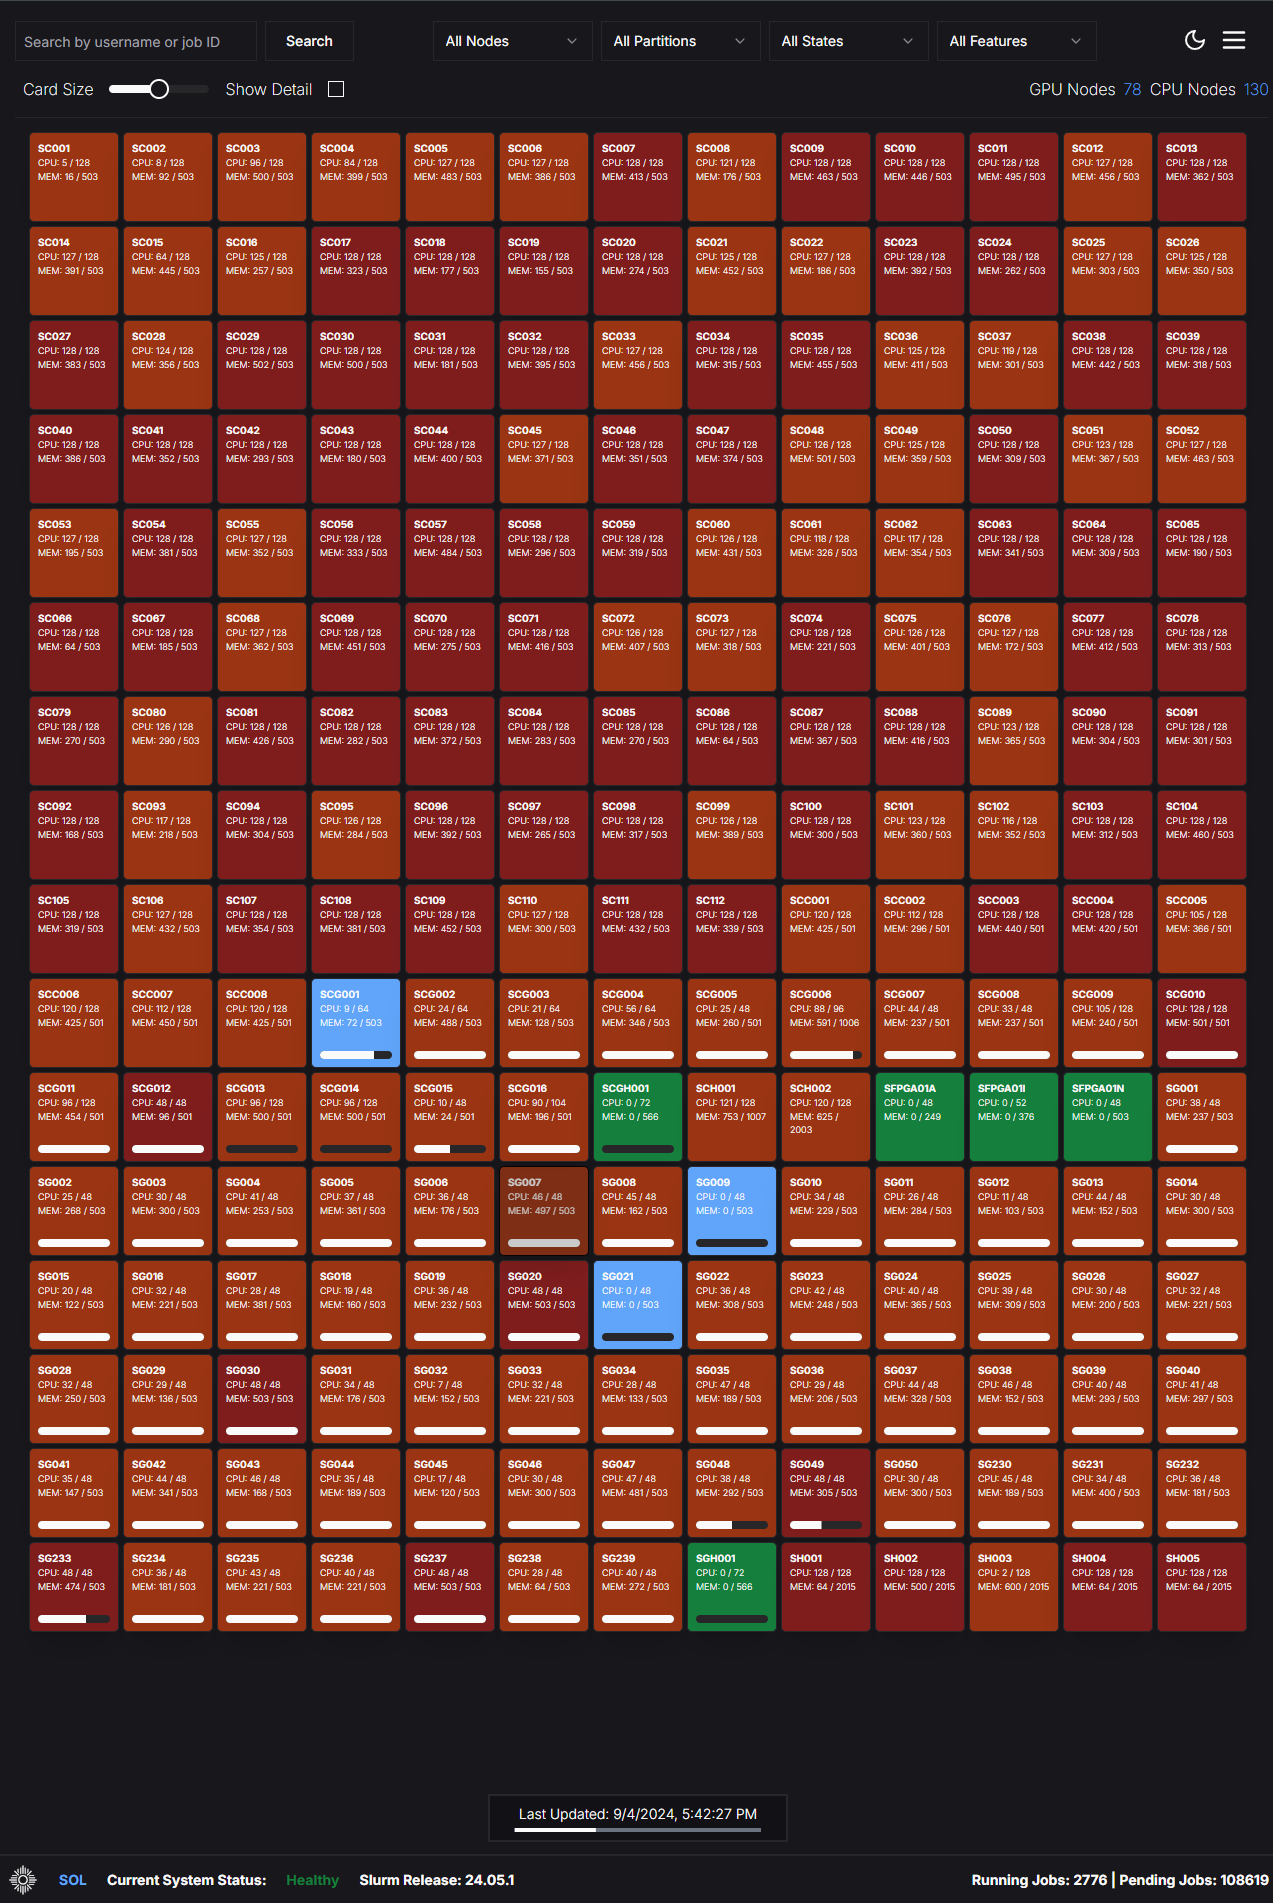
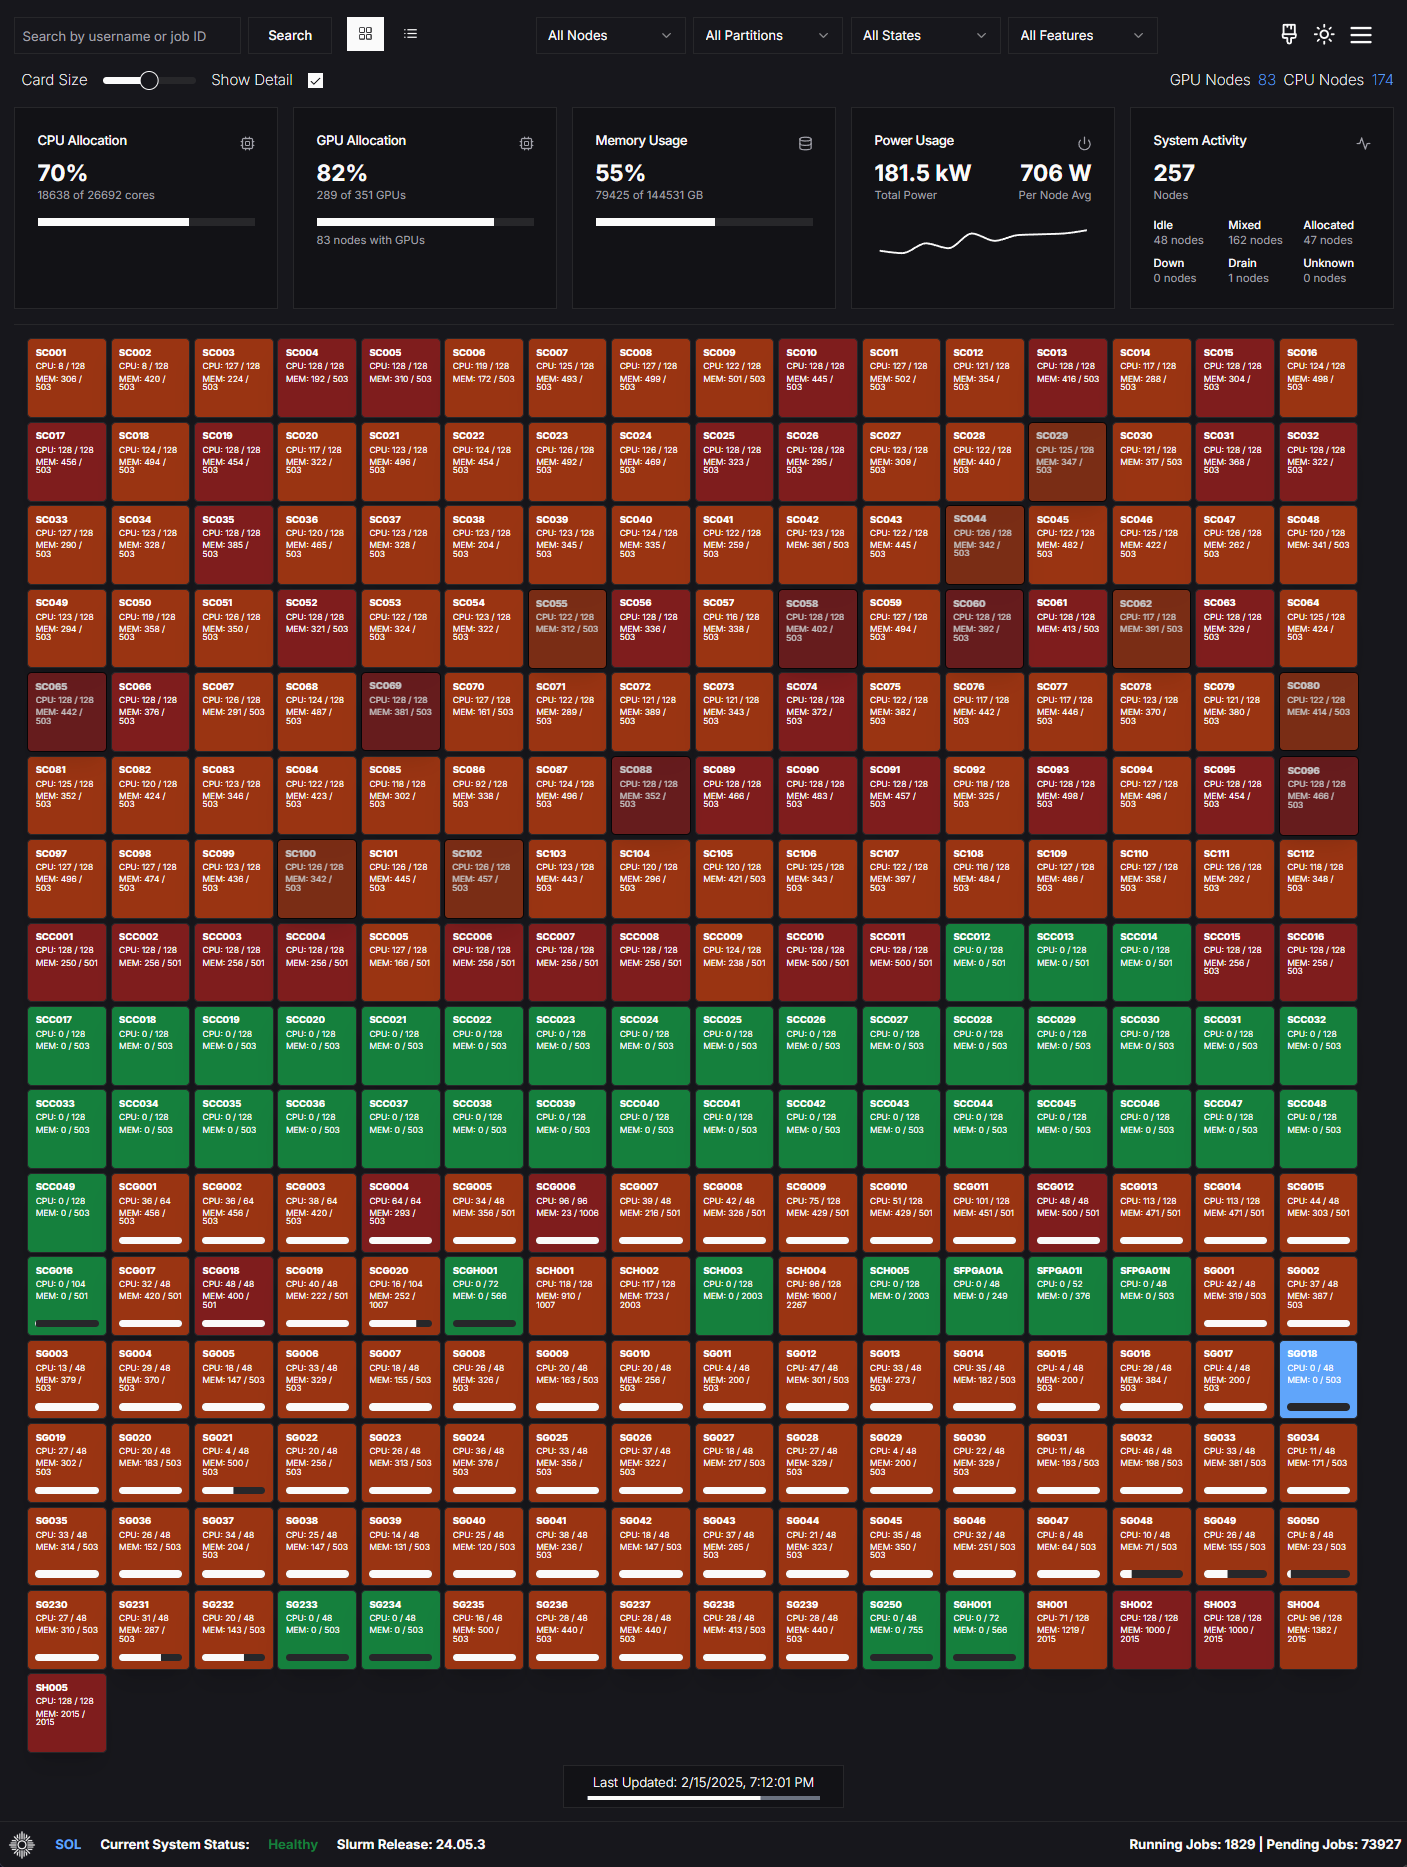
updating images for github, and updating power to use prometheus ipmi power data if available.

diff --git a/components/nodeCard/stats.tsx b/components/nodeCard/stats.tsx
@@ -1,12 +1,44 @@
 import React from "react";
 import { Card, CardContent, CardHeader, CardTitle } from "@/components/ui/card";
-import { LineChart, Line, ResponsiveContainer } from "recharts";
+import { LineChart, Line, ResponsiveContainer, YAxis, Tooltip } from "recharts";
 import { Activity, Cpu, Database, Power } from "lucide-react";
 import { parseGPUResources } from "@/utils/gpu-parse";
 import { cn } from "@/lib/utils";
+import { CustomTooltip } from "./stats-power-tooltip";
+import useSWR from "swr";
+
+// Fetcher function for SWR
+const fetcher = async (url: string) => {
+  const res = await fetch(url);
+  if (!res.ok) throw new Error("Failed to fetch data");
+  return res.json();
+};
 
 export default function Stats({ data }: { data: { nodes: any[] } }) {
   const systems = data?.nodes || [];
+  const [isPrometheusAvailable, setIsPrometheusAvailable] = React.useState<
+    boolean | null
+  >(null);
+  const shouldFetch = isPrometheusAvailable !== false;
+  const { data: powerData, error } = useSWR(
+    shouldFetch ? "/api/prometheus/ipmi" : null,
+    fetcher,
+    {
+      refreshInterval: 60000, // 60 seconds
+      fallbackData: { status: 404, data: [], summary: null },
+      onError: (err) => {
+        console.error("Prometheus endpoint error:", err);
+        setIsPrometheusAvailable(false);
+      },
+      onSuccess: (data) => {
+        setIsPrometheusAvailable(data.status === 200);
+      },
+    }
+  );
+
+  const usePrometheusData = powerData?.status === 200;
+  const prometheusData = powerData?.data || [];
+  const powerSummary = powerData?.summary;
 
   const stats = React.useMemo(() => {
     let totalMemoryUsed = 0;
@@ -33,7 +65,8 @@ export default function Stats({ data }: { data: { nodes: any[] } }) {
       totalCoresUsed += node.alloc_cpus;
       totalCores += node.cpus;
 
-      if (node.energy?.current_watts?.number) {
+      // Only use Slurm power data if Prometheus data isn't available
+      if (!usePrometheusData && node.energy?.current_watts?.number) {
         totalPowerUsage += node.energy.current_watts.number;
         totalPowerNodes++;
       }
@@ -48,7 +81,6 @@ export default function Stats({ data }: { data: { nodes: any[] } }) {
         totalGpuNodes++;
       }
 
-      // Track node states
       if (node.state[0] === "IDLE") nodeStates.idle++;
       if (node.state[0] === "MIXED") nodeStates.mixed++;
       if (node.state[0] === "ALLOCATED") nodeStates.allocated++;
@@ -65,22 +97,41 @@ export default function Stats({ data }: { data: { nodes: any[] } }) {
       totalCores,
       totalGpuUsed,
       totalGpu,
-      averagePowerUsage:
-        totalPowerNodes > 0 ? totalPowerUsage / totalPowerNodes : 0,
-      totalPowerKw: totalPowerUsage / 1000,
+      averagePowerUsage: usePrometheusData
+        ? powerSummary?.currentAverage || 0
+        : totalPowerNodes > 0
+        ? totalPowerUsage / totalPowerNodes
+        : 0,
+      totalPowerKw: usePrometheusData
+        ? (powerSummary?.currentTotal || 0) / 1000
+        : totalPowerUsage / 1000,
       nodeStates,
       totalGpuNodes,
-      hasPowerData: totalPowerNodes > 0,
+      hasPowerData: usePrometheusData ? true : totalPowerNodes > 0,
     };
-  }, [systems]);
+  }, [systems, usePrometheusData, powerSummary]);
 
-  // Calculate power usage trend data
+  // Use Prometheus data for the chart if available, otherwise fallback to Slurm data
   const powerTrendData = React.useMemo(() => {
-    return systems.slice(0, 10).map((node, index) => ({
-      name: node.name,
+    if (usePrometheusData && prometheusData.length > 0) {
+      return prometheusData.map((data: { time: string | number | Date }) => ({
+        ...data,
+        time:
+          typeof data.time === "number"
+            ? data.time.toString().length === 13
+              ? data.time
+              : data.time * 1000
+            : new Date(data.time).getTime(),
+      }));
+    }
+
+    return systems.slice(0, 10).map((node) => ({
+      time: Date.now(),
       watts: node.energy?.current_watts?.number || 0,
+      averageWatts: node.energy?.current_watts?.number || 0,
+      nodesReporting: 1,
     }));
-  }, [systems]);
+  }, [systems, usePrometheusData, prometheusData]);
 
   const cpuPercentage =
     stats.totalCores > 0
@@ -94,6 +145,10 @@ export default function Stats({ data }: { data: { nodes: any[] } }) {
     stats.totalGpu > 0
       ? Math.round((stats.totalGpuUsed / stats.totalGpu) * 100)
       : 0;
+
+  if (error) {
+    console.error("Failed to fetch power data:", error);
+  }
 
   return (
     <div
@@ -195,6 +250,8 @@ export default function Stats({ data }: { data: { nodes: any[] } }) {
             <div className="h-[60px] mt-4">
               <ResponsiveContainer width="100%" height="100%">
                 <LineChart data={powerTrendData}>
+                  <YAxis domain={["auto", "auto"]} hide />
+                  <Tooltip content={CustomTooltip} />
                   <Line
                     type="monotone"
                     dataKey="watts"

diff --git a/app/api/prometheus/ipmi/route.ts b/app/api/prometheus/ipmi/route.ts
@@ -1,0 +1,91 @@
+import { PrometheusQueryResponse } from "@/types/types";
+import { NextResponse } from "next/server";
+import { PrometheusDriver } from "prometheus-query";
+
+const PROMETHEUS_URL = process.env.PROMETHEUS_URL;
+const MAX_DATA_POINTS = 200;
+
+let prom: PrometheusDriver | null = null;
+
+if (PROMETHEUS_URL) {
+  prom = new PrometheusDriver({
+    endpoint: PROMETHEUS_URL,
+    baseURL: "/api/v1",
+  });
+}
+
+export async function GET(req: Request) {
+  if (!prom) {
+    return NextResponse.json({ status: 404 });
+  }
+
+  try {
+    const now = new Date();
+    const sixHoursAgo = new Date(now.getTime() - 6 * 60 * 60 * 1000);
+    const powerQuery = 'ipmi_power_watts{name="Pwr Consumption"}';
+
+    const timeRangeSeconds = (now.getTime() - sixHoursAgo.getTime()) / 1000;
+    const stepSize = Math.max(
+      Math.floor(timeRangeSeconds / MAX_DATA_POINTS),
+      60
+    );
+
+    const historicalRes: PrometheusQueryResponse = await prom.rangeQuery(
+      powerQuery,
+      sixHoursAgo,
+      now,
+      stepSize
+    );
+
+    const timeSeriesMap = new Map<
+      number,
+      {
+        totalWatts: number;
+        nodeCount: number;
+      }
+    >();
+
+    historicalRes.result.forEach((series) => {
+      series.values.forEach(({ time, value }) => {
+        const timeKey = Number(time);
+        const existing = timeSeriesMap.get(timeKey) || {
+          totalWatts: 0,
+          nodeCount: 0,
+        };
+
+        existing.totalWatts += parseFloat(value.toString());
+        existing.nodeCount += 1;
+        timeSeriesMap.set(timeKey, existing);
+      });
+    });
+
+    const timeSeriesData = Array.from(timeSeriesMap.entries())
+      .map(([time, { totalWatts, nodeCount }]) => ({
+        time,
+        watts: Math.round(totalWatts),
+        averageWatts: Math.round(totalWatts / nodeCount),
+        nodesReporting: nodeCount,
+      }))
+      .sort((a, b) => a.time - b.time)
+      .slice(-MAX_DATA_POINTS);
+
+    const lastPoint = timeSeriesData[timeSeriesData.length - 1];
+
+    return NextResponse.json({
+      status: 200,
+      data: timeSeriesData,
+      summary: {
+        currentTotal: lastPoint.watts,
+        currentAverage: lastPoint.averageWatts,
+        nodesReporting: lastPoint.nodesReporting,
+      },
+    });
+  } catch (error) {
+    console.error("Error fetching power data:", error);
+    return NextResponse.json({
+      status: 500,
+      message: "Internal Server Error",
+      error: error instanceof Error ? error.message : "Unknown error",
+    });
+  }
+}

diff --git a/components/nodeCard/stats-power-tooltip.tsx b/components/nodeCard/stats-power-tooltip.tsx
@@ -1,0 +1,58 @@
+import React from "react";
+import { format } from "date-fns";
+import { Card } from "@/components/ui/card";
+import { Zap } from "lucide-react";
+import { TooltipProps } from "recharts";
+import {
+  NameType,
+  ValueType,
+} from "recharts/types/component/DefaultTooltipContent";
+
+interface PowerData {
+  time: number;
+  watts: number;
+  averageWatts: number;
+  nodesReporting: number;
+}
+
+export const CustomTooltip = ({
+  active,
+  payload,
+  label,
+}: TooltipProps<ValueType, NameType>) => {
+  if (!active || !payload || !payload.length) return null;
+
+  const data = payload[0].payload as PowerData;
+  const date = new Date(data.time);
+
+  return (
+    <Card className="p-3 shadow-lg border border-border bg-popover">
+      <div className="flex items-center gap-2 mb-2">
+        <Zap className="w-4 h-4 text-yellow-500" />
+        <p className="text-sm font-medium">
+          {format(date, "MMM d, yyyy HH:mm:ss")}
+        </p>
+      </div>
+      <div className="space-y-1">
+        <div className="flex justify-between gap-4">
+          <span className="text-sm text-muted-foreground">Total Power:</span>
+          <span className="text-sm font-medium">{data.watts.toFixed(0)}W</span>
+        </div>
+        <div className="flex justify-between gap-4">
+          <span className="text-sm text-muted-foreground">
+            Average per Node:
+          </span>
+          <span className="text-sm font-medium">
+            {data.averageWatts.toFixed(0)}W
+          </span>
+        </div>
+        <div className="flex justify-between gap-4">
+          <span className="text-sm text-muted-foreground">
+            Nodes Reporting:
+          </span>
+          <span className="text-sm font-medium">{data.nodesReporting}</span>
+        </div>
+      </div>
+    </Card>
+  );
+};
